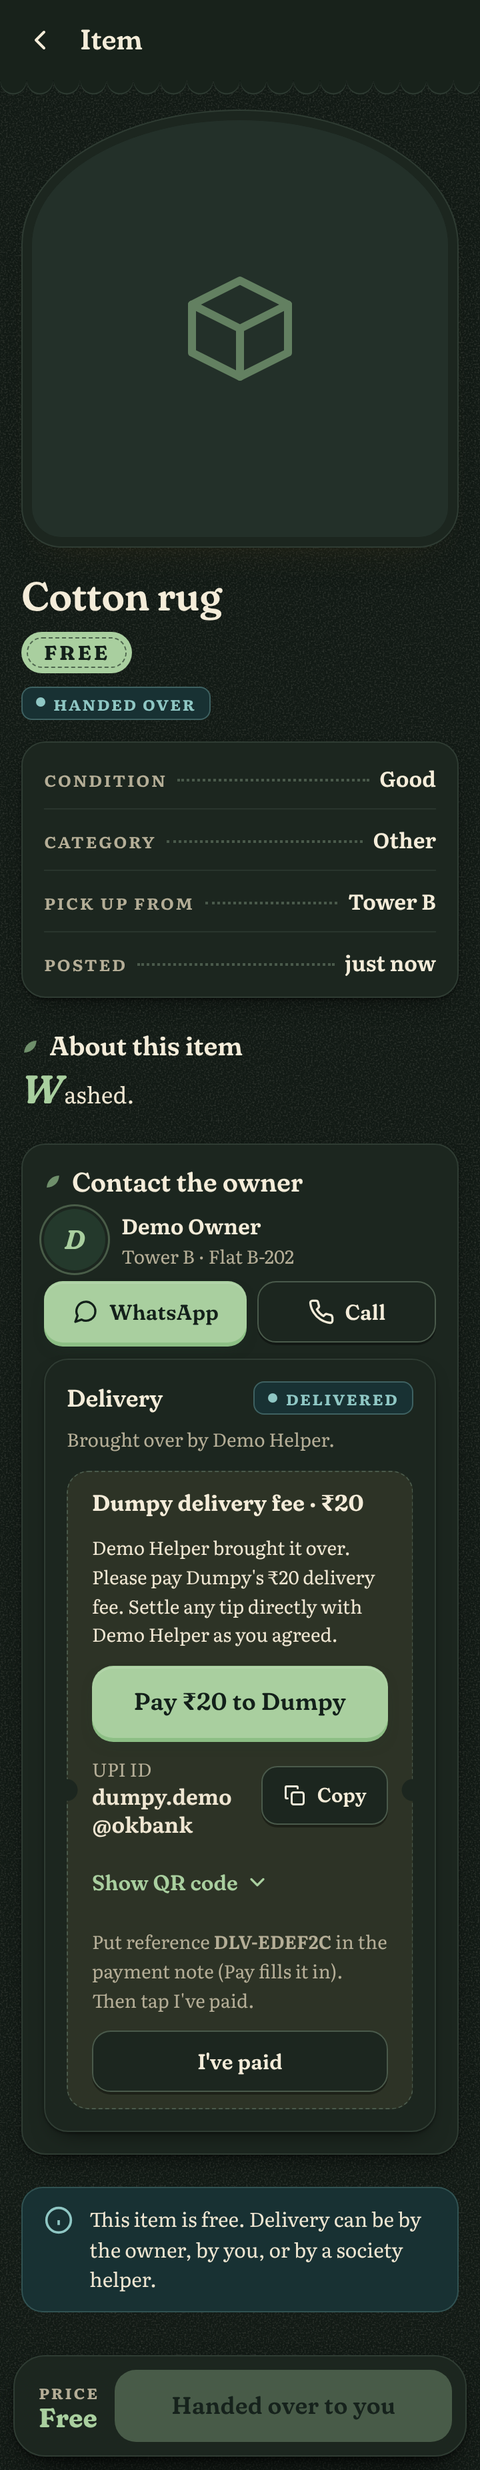
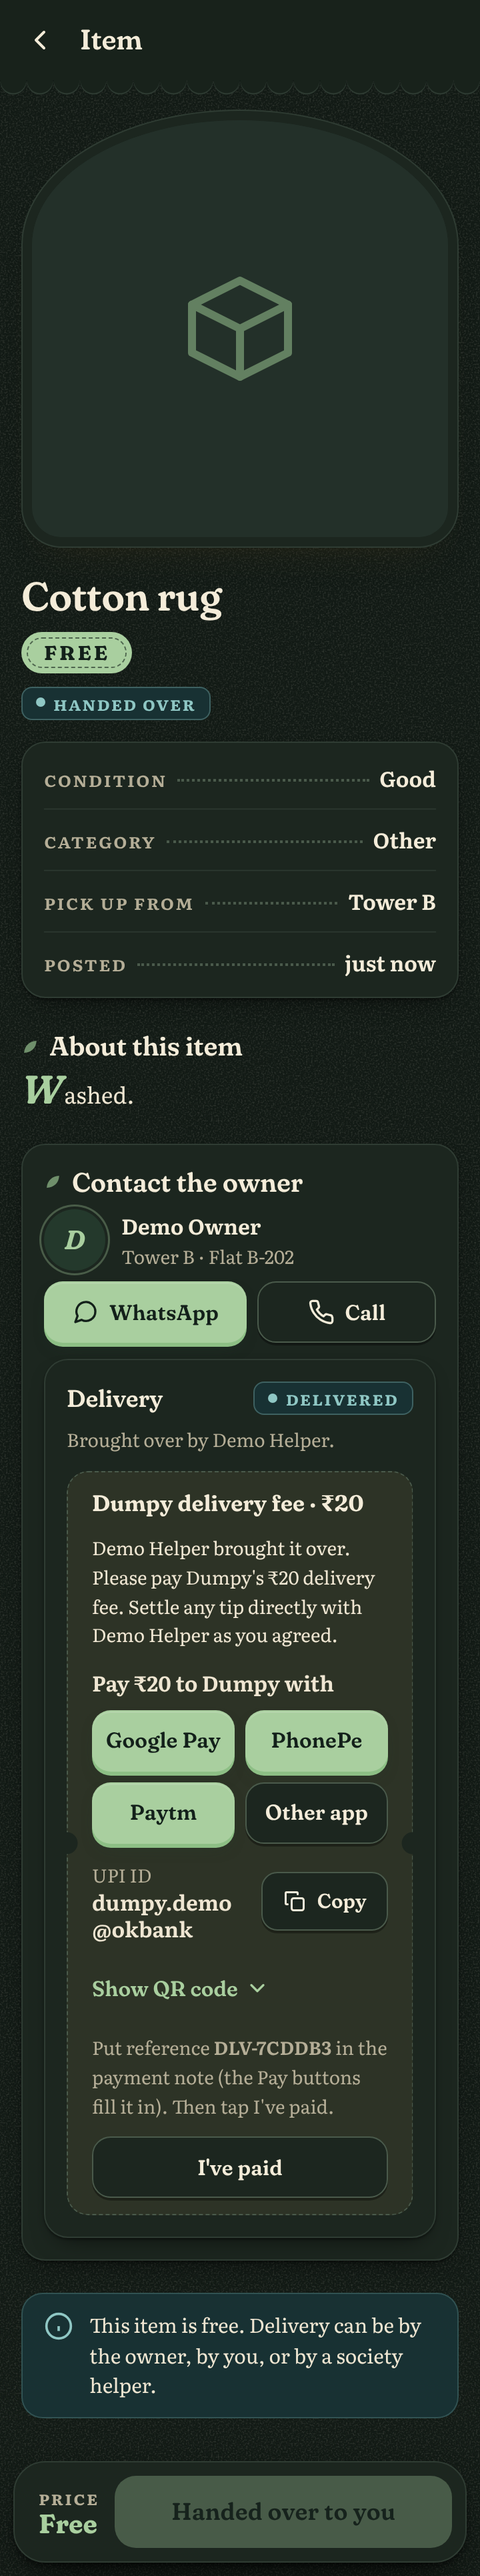
Pay opens Google Pay, PhonePe or Paytm instead of WhatsApp
A plain upi:// link lets the phone choose the app, and many phones pick
WhatsApp. On Android and iPhone the Pay box now shows one button per UPI
app (Android intent links by package, iPhone app links), plus Other app
with the plain link. Applies to item payments and the Dumpy delivery fee.

Claude-Session: https://claude.ai/code/session_01RPdTXMb1PRF175KPwEZfhq

diff --git a/js/pay.js b/js/pay.js
@@ -36,6 +36,43 @@
       "&tn=" + encodeURIComponent(note);
   }
 
+  // Buttons that open a named UPI app. A plain upi:// link lets the phone pick
+  // the app, and on many phones that is WhatsApp (it registers for UPI links
+  // too), so phones get one button per common app:
+  //   Android  an intent link naming the app's package; Chrome opens that app,
+  //            or its Play Store page if it is not installed
+  //   iPhone   the app's own link scheme (iOS has no shared upi:// handler)
+  // Every button carries the same payment details as the plain link.
+  var APPS = [
+    { name: "Google Pay", android: "com.google.android.apps.nbu.paisa.user", ios: "gpay://upi/pay" },
+    { name: "PhonePe", android: "com.phonepe.app", ios: "phonepe://pay" },
+    { name: "Paytm", android: "net.one97.paytm", ios: "paytmmp://upi/pay" }
+  ];
+  function phoneKind() {
+    var ua = navigator.userAgent || "";
+    if (/Android/i.test(ua)) return "android";
+    if (/iPhone|iPad|iPod/i.test(ua) || (/Macintosh/i.test(ua) && navigator.maxTouchPoints > 1)) return "ios";
+    return null;
+  }
+  function appHref(app, href, kind) {
+    var query = href.slice(href.indexOf("?"));
+    return kind === "android" ? "intent://pay" + query + "#Intent;scheme=upi;package=" + app.android + ";end" : app.ios + query;
+  }
+  // The Pay buttons for a upi:// link. label is the button text off phones
+  // (for example "Pay ₹250"); on phones it heads the row of app buttons.
+  function buttons(href, label) {
+    var kind = phoneKind();
+    if (!kind) {
+      return '<a class="btn btn--primary btn--lg btn--block" href="' + esc(href) + '" data-pay-link>' + esc(label) + "</a>";
+    }
+    return '<div class="pay__apps" role="group" aria-label="' + esc(label) + '">' +
+      '<p class="pay__apps-title">' + esc(label) + " with</p>" +
+      APPS.map(function (a) {
+        return '<a class="btn btn--primary" href="' + esc(appHref(a, href, kind)) + '" data-pay-app="' + esc(a.name) + '">' + esc(a.name) + "</a>";
+      }).join("") +
+      '<a class="btn btn--outline" href="' + esc(href) + '" data-pay-link>Other app</a></div>';
+  }
+
   // A QR code of the link as inline SVG, drawn by the pinned qrcode-generator
   // library. Returns "" if the library did not load.
   function qrSvg(text) {
@@ -112,13 +149,13 @@
     var href = link(upi, c.display_name, l.price_inr, l.title);
     var qr = qrSvg(href);
     return head +
-      '<a class="btn btn--primary btn--lg btn--block" href="' + esc(href) + '" data-pay-link>Pay ' + price + "</a>" +
+      buttons(href, "Pay " + price) +
       '<div class="pay__upi"><p><span class="small muted">UPI ID</span><br><span class="pay__id" translate="no">' + esc(upi) + "</span></p>" +
       '<button type="button" class="btn btn--outline btn--sm" data-pay-copy="' + esc(upi) + '" aria-label="Copy UPI ID ' + esc(upi) + '">' + ICON_COPY + "Copy</button></div>" +
       (qr ? '<details class="pay__qr" data-pay-qr><summary>Show QR code</summary>' +
         '<figure role="img" aria-label="QR code to pay ' + esc(c.display_name) + " " + price + ' by UPI">' + qr + "</figure>" +
         '<p class="small muted">Scan with any UPI app on another phone.</p></details>' : "") +
-      '<p class="small muted">Pay opens your UPI app with ' + price + " filled in. If nothing opens (on iPhone, for example), copy the UPI ID and pay in any UPI app, or pay in cash. Dumpy never holds money.</p>" +
+      '<p class="small muted">Each button opens that app with ' + price + " filled in. If nothing opens, copy the UPI ID and pay in any UPI app, or pay in cash. Dumpy never holds money.</p>" +
       "</div>";
   }
 
@@ -186,5 +223,5 @@
     input.disabled = false;
   });
 
-  Dumpy.pay = { link: link, card: card, loadStatus: loadStatus, setPaid: setPaid, qrSvg: qrSvg };
+  Dumpy.pay = { link: link, buttons: buttons, card: card, loadStatus: loadStatus, setPaid: setPaid, qrSvg: qrSvg };
 })();

diff --git a/tests/browser/fees.js b/tests/browser/fees.js
@@ -40,8 +40,8 @@ const q1 = (query) => sql(query).split('\n').filter(Boolean).pop() || '';
 
   const browser = await chromium.launch(process.env.CHROMIUM_PATH ? { executablePath: process.env.CHROMIUM_PATH } : {});
   const errors = [];
-  async function personPage(user, scheme) {
-    const ctx = await browser.newContext({ ...PHONE, colorScheme: scheme || 'light' });
+  async function personPage(user, scheme, userAgent) {
+    const ctx = await browser.newContext({ ...PHONE, colorScheme: scheme || 'light', ...(userAgent ? { userAgent } : {}) });
     await wire(ctx);
     const p = await ctx.newPage();
     p.on('pageerror', (e) => errors.push(e.message));
@@ -118,7 +118,7 @@ const q1 = (query) => sql(query).split('\n').filter(Boolean).pop() || '';
   // 5. The taker pays the fee.
   await t.reload(); await settle(t);
   await t.waitForSelector(`${box} [data-fee]`);
-  const href = await t.getAttribute(`${box} [data-fee-link]`, 'href');
+  const href = await t.getAttribute(`${box} [data-pay-link]`, 'href');
   const ref = 'DLV-' + did.replace(/-/g, '').slice(0, 6).toUpperCase();
   check(href.startsWith('upi://pay?pa=dumpy.demo@okbank&pn=Dumpy&am=20.00&cu=INR&tn=') && decodeURIComponent(href).includes('delivery ' + ref),
     `Pay opens a UPI app with ₹20 to Dumpy and the reference ${ref} in the note`);
@@ -163,7 +163,7 @@ const q1 = (query) => sql(query).split('\n').filter(Boolean).pop() || '';
   check(true, 'The taker sees the fee as received');
 
   // 7. Now the rug can have a helper. Dark mode shots.
-  const td = await personPage(TAKER, 'dark');
+  const td = await personPage(TAKER, 'dark', 'Mozilla/5.0 (Linux; Android 14; Pixel 7) AppleWebKit/537.36 (KHTML, like Gecko) Chrome/129.0.0.0 Mobile Safari/537.36');
   await td.goto(SITE + '/pages/item.html?id=' + RUG); await settle(td);
   await td.waitForSelector(`${box} form`);
   await td.click(`${box} label:has-text("A neighbour helper brings it")`);
@@ -175,7 +175,8 @@ const q1 = (query) => sql(query).split('\n').filter(Boolean).pop() || '';
   sql(`select public.claim_delivery('${rid}')`, HELPER.id);
   sql(`select public.mark_delivered('${rid}')`, HELPER.id);
   await td.reload(); await settle(td);
-  await td.waitForSelector(`${box} [data-fee-link]`);
+  await td.waitForSelector(`${box} [data-pay-link]`);
+  check((await td.getAttribute(`${box} [data-pay-app="PhonePe"]`, 'href')).startsWith('intent://pay?pa=dumpy.demo@okbank&pn=Dumpy&am=20.00'), 'On Android the fee box offers PhonePe and the other UPI apps');
   await shot(td, 'item-fee-due-dark');
   const bd = await personPage(BOSS, 'dark');
   await bd.goto(SITE + '/pages/platform.html'); await settle(bd);

diff --git a/tests/browser/pay.js b/tests/browser/pay.js
@@ -59,6 +59,29 @@ const errors = [];
   await noSideScroll(t, 'item pay'); await smallTargets(t, 'item pay');
   await shot(t, 'item-pay-light');
 
+  // On phones, Pay offers one button per UPI app, so the phone can't hand the
+  // payment to WhatsApp. Android gets intent links naming each app's package.
+  const ANDROID = 'Mozilla/5.0 (Linux; Android 14; Pixel 7) AppleWebKit/537.36 (KHTML, like Gecko) Chrome/129.0.0.0 Mobile Safari/537.36';
+  const IPHONE = 'Mozilla/5.0 (iPhone; CPU iPhone OS 17_5 like Mac OS X) AppleWebKit/605.1.15 (KHTML, like Gecko) Version/17.5 Mobile/15E148 Safari/604.1';
+  const query = expected.slice(expected.indexOf('?'));
+  const ta = await personPage(TAKER, { userAgent: ANDROID });
+  await ta.goto(SITE + '/pages/item.html?id=' + TABLE); await settle(ta); await ta.waitForSelector('.pay [data-pay-app]');
+  const apps = await ta.$$eval('.pay [data-pay-app]', (els) => els.map((e) => [e.textContent.trim(), e.getAttribute('href')]));
+  check(JSON.stringify(apps.map((a) => a[0])) === '["Google Pay","PhonePe","Paytm"]', 'On Android, Pay offers Google Pay, PhonePe and Paytm');
+  check(apps[0][1] === 'intent://pay' + query + '#Intent;scheme=upi;package=com.google.android.apps.nbu.paisa.user;end'
+    && apps[1][1].endsWith(';package=com.phonepe.app;end') && apps[2][1].endsWith(';package=net.one97.paytm;end'),
+    'Each Android button opens that app by its package, with the same payment details\n       ' + apps[0][1]);
+  check((await ta.getAttribute('[data-pay-link]', 'href')) === expected && (await ta.textContent('[data-pay-link]')).trim() === 'Other app',
+    'Other app keeps the plain upi:// link');
+  check(!(await ta.content()).includes('whatsapp://pay'), 'No button hands the payment to WhatsApp');
+  await noSideScroll(ta, 'item pay android'); await smallTargets(ta, 'item pay android');
+  await shot(ta, 'item-pay-android-light');
+  const ti = await personPage(TAKER, { userAgent: IPHONE });
+  await ti.goto(SITE + '/pages/item.html?id=' + TABLE); await settle(ti); await ti.waitForSelector('.pay [data-pay-app]');
+  const iapps = await ti.$$eval('.pay [data-pay-app]', (els) => els.map((e) => e.getAttribute('href')));
+  check(iapps[0] === 'gpay://upi/pay' + query && iapps[1] === 'phonepe://pay' + query && iapps[2] === 'paytmmp://upi/pay' + query,
+    'On iPhone each button uses that app\'s own link');
+
   // 2. Copy UPI ID, the fallback for iPhones and phones where the link opens nothing.
   await t.click('[data-pay-copy]');
   await t.waitForFunction(() => /Copied/.test(document.querySelector('[data-pay-copy]').textContent));

diff --git a/js/delivery.js b/js/delivery.js
@@ -219,13 +219,13 @@
     return head +
       '<p class="small">' + esc(d.helper_name || "The helper") + " brought it over. Please pay Dumpy's " + price +
         " delivery fee. Settle any tip directly with " + esc(d.helper_name || "the helper") + " as you agreed.</p>" +
-      (href ? '<a class="btn btn--primary btn--lg btn--block" href="' + esc(href) + '" data-fee-link>Pay ' + price + " to Dumpy</a>" : "") +
+      (href ? P.buttons(href, "Pay " + price + " to Dumpy") : "") +
       (upi ? '<div class="pay__upi"><p><span class="small muted">UPI ID</span><br><span class="pay__id" translate="no">' + esc(upi) + "</span></p>" +
         '<button type="button" class="btn btn--outline btn--sm" data-pay-copy="' + esc(upi) + '" aria-label="Copy UPI ID ' + esc(upi) + '">' + ICON_COPY + "Copy</button></div>" : "") +
       (qr ? '<details class="pay__qr" data-pay-qr><summary>Show QR code</summary>' +
         '<figure role="img" aria-label="QR code to pay Dumpy ' + price + ' by UPI">' + qr + "</figure>" +
         '<p class="small muted">Scan with any UPI app on another phone.</p></details>' : "") +
-      '<p class="small muted">Put reference <strong translate="no">' + esc(d.fee_ref) + "</strong> in the payment note (Pay fills it in). Then tap I've paid.</p>" +
+      '<p class="small muted">Put reference <strong translate="no">' + esc(d.fee_ref) + "</strong> in the payment note (the Pay buttons fill it in). Then tap I've paid.</p>" +
       '<button type="button" class="btn btn--outline btn--block" data-dact="feepaid">I\'ve paid</button></div>';
   }
 

diff --git a/css/style.css b/css/style.css
@@ -1423,6 +1423,10 @@ a.row-card__title:hover span { text-decoration: underline; text-underline-offset
 .pay__qr figure { margin: var(--space-2) 0; width: min(240px, 100%); }
 .pay__qr svg { display: block; width: 100%; height: auto; border-radius: var(--radius-sm); background: #fff; }
 .pay__switch { gap: var(--space-3); }
+/* One button per UPI app on phones, so Pay never lands in WhatsApp. */
+.pay__apps { display: grid; grid-template-columns: repeat(2, minmax(0, 1fr)); gap: var(--space-2); }
+.pay__apps-title { grid-column: 1 / -1; font-weight: 650; }
+.pay__apps .btn { min-width: 0; padding-left: var(--space-2); padding-right: var(--space-2); }
 
 /* Dumpy's delivery fee: a note in the delivery form, and totals on Run Dumpy. */
 [data-fee-note] { margin-top: var(--space-2); }
